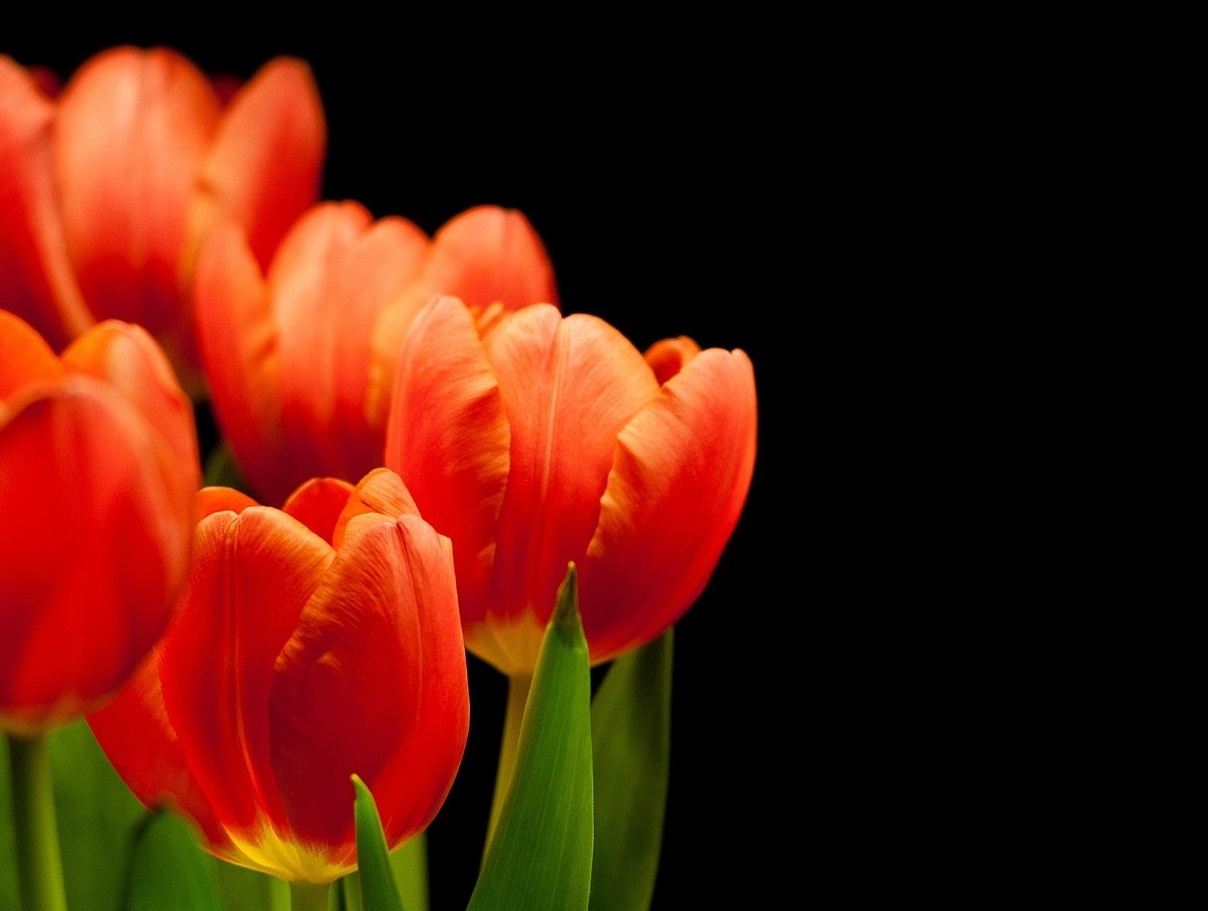
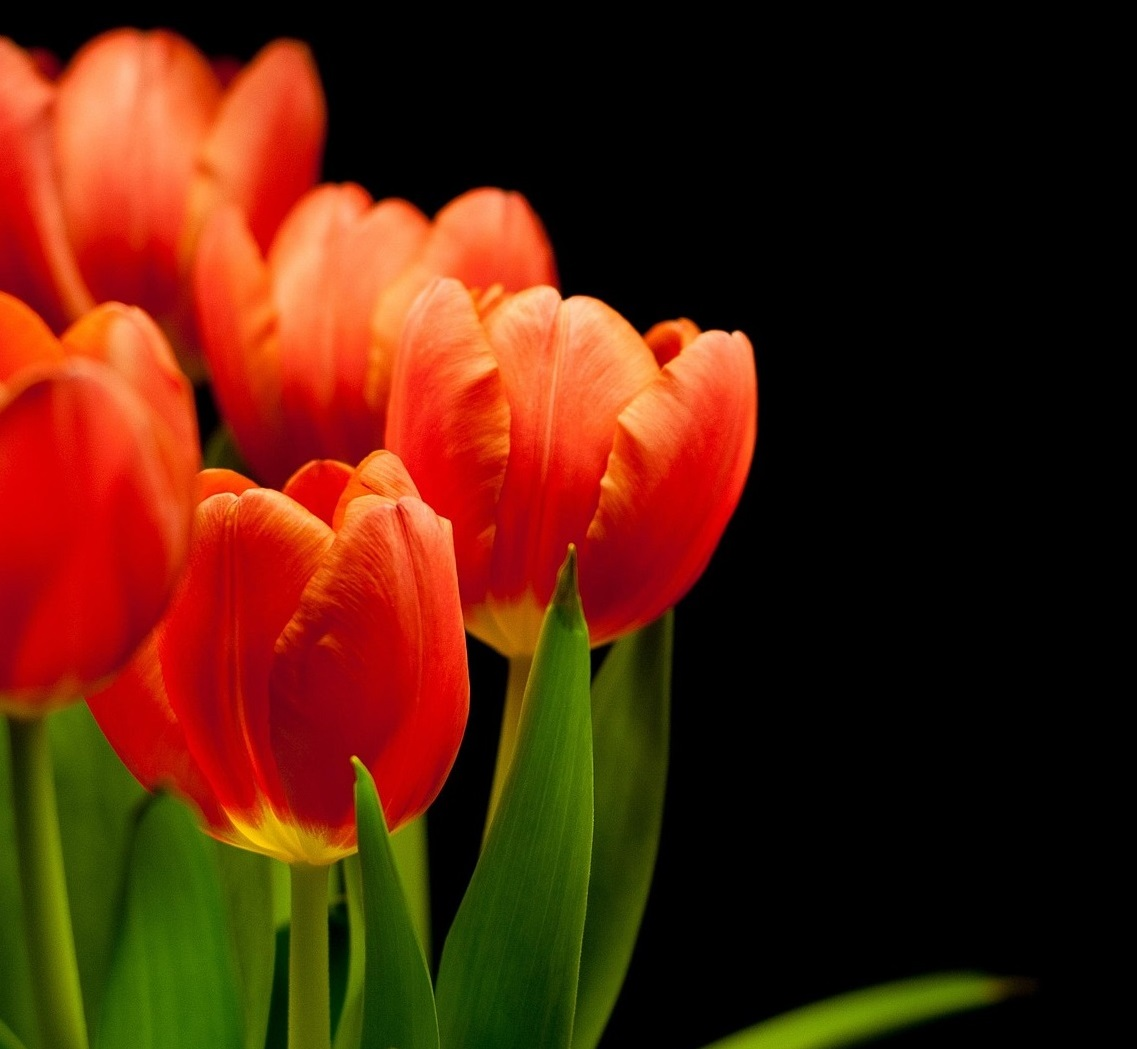
ultimo commit por hoy

diff --git a/styles.css b/styles.css
@@ -406,7 +406,7 @@ body {
 .banner {
     width: 100%;
     height: 40vh;
-    background-image: url(img/banner/b19.jpg);
+    background-image: url(img/banner/solazo_largo.png);
     background-repeat: no-repeat;
     background-size: cover;
     background-position: center;
